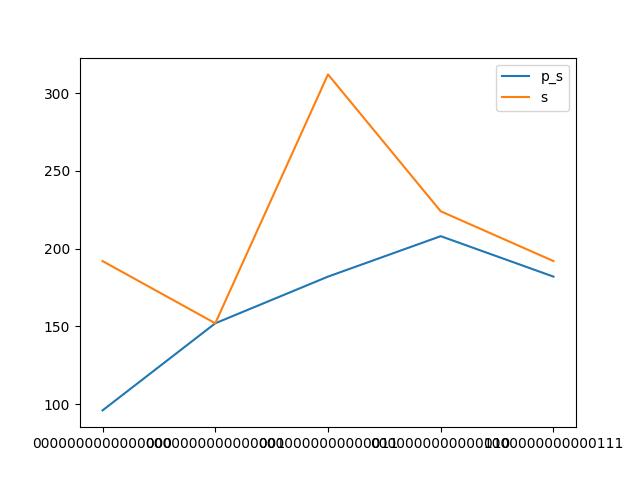
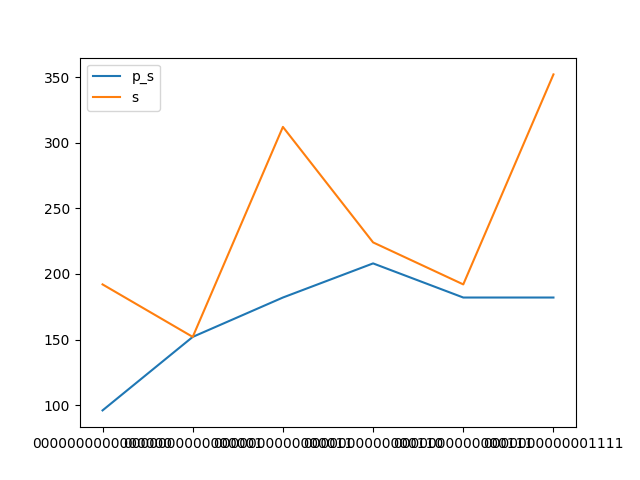
0x000F

diff --git a/benchmark.md b/benchmark.md
@@ -12,16 +12,18 @@
 
 [INFO] Synthesising NPN Class=4 TruthTable:0x0007 pexact:182 r=4 exact:192 r=3time=0.3716464638710022min 
 
+[INFO] Synthesising NPN Class=5 TruthTable:0x000F pexact:182 r=4 exact:352 r=4time=0.4697942058245341min 
+
 ```mermaid
 xychart-beta
     title "Comparison powertwoexact twoexact"
-    x-axis ['0000000000000000', '0000000000000001', '0000000000000011', '0000000000000110', '0000000000000111']
-    y-axis "Switching Activity" 0-->312
-    line [96, 152, 182, 208, 182]
-    line [192, 152, 312, 224, 192]
-    line [164.0, 164.0, 164.0, 164.0, 164.0]
-    line [214.4, 214.4, 214.4, 214.4, 214.4]
-    bar [80, 60, 80, 80, 80]
-    bar [80, 60, 80, 60, 60]
+    x-axis ['0000000000000000', '0000000000000001', '0000000000000011', '0000000000000110', '0000000000000111', '0000000000001111']
+    y-axis "Switching Activity" 0-->352
+    line [96, 152, 182, 208, 182, 182]
+    line [192, 152, 312, 224, 192, 352]
+    line [167.0, 167.0, 167.0, 167.0, 167.0, 167.0]
+    line [237.33333333333334, 237.33333333333334, 237.33333333333334, 237.33333333333334, 237.33333333333334, 237.33333333333334]
+    bar [80, 60, 80, 80, 80, 80]
+    bar [80, 60, 80, 60, 60, 80]
 ```
 
